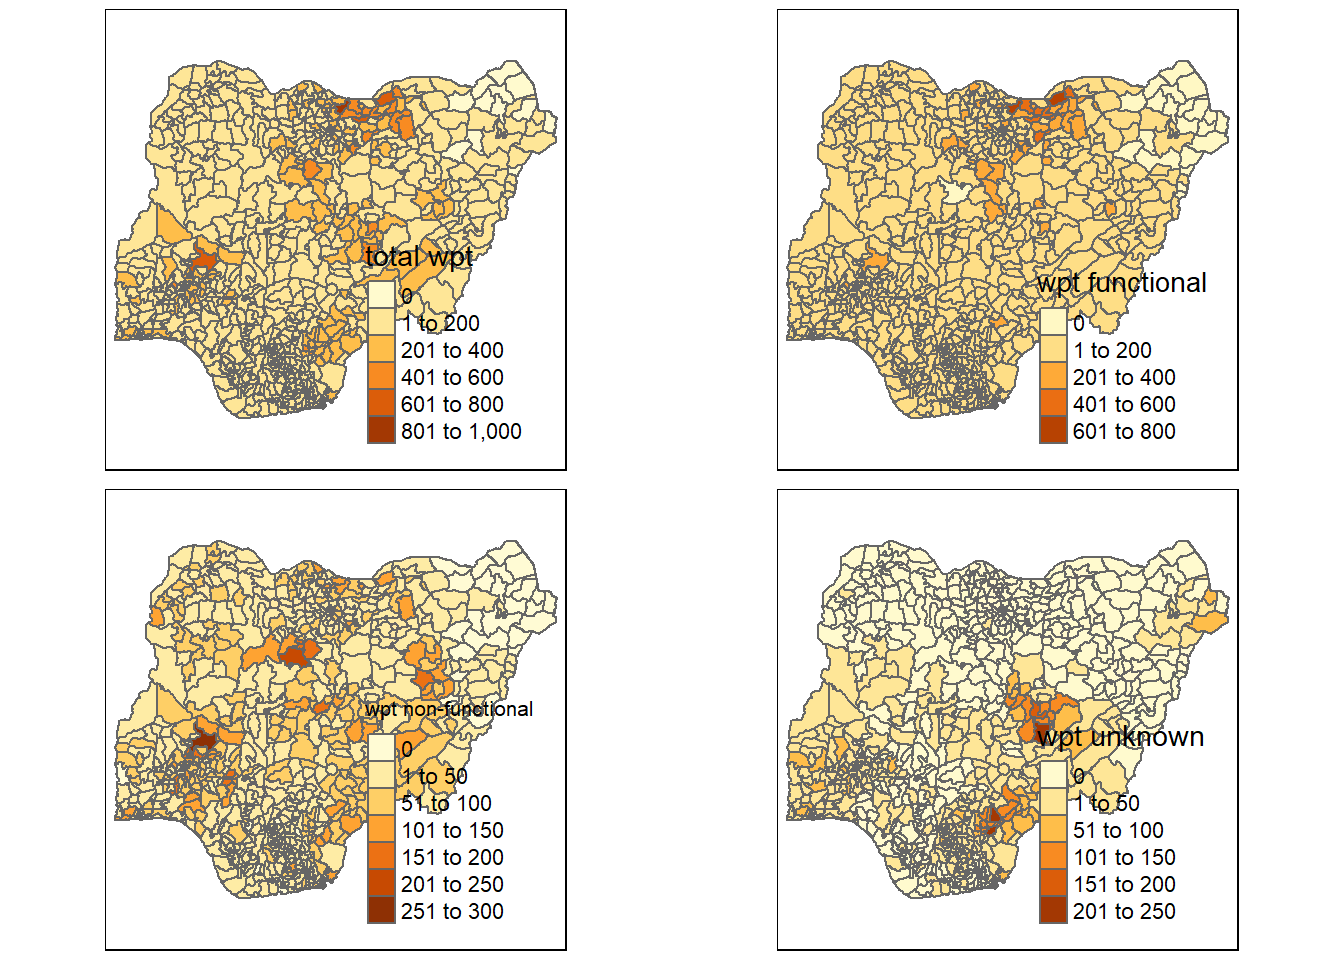
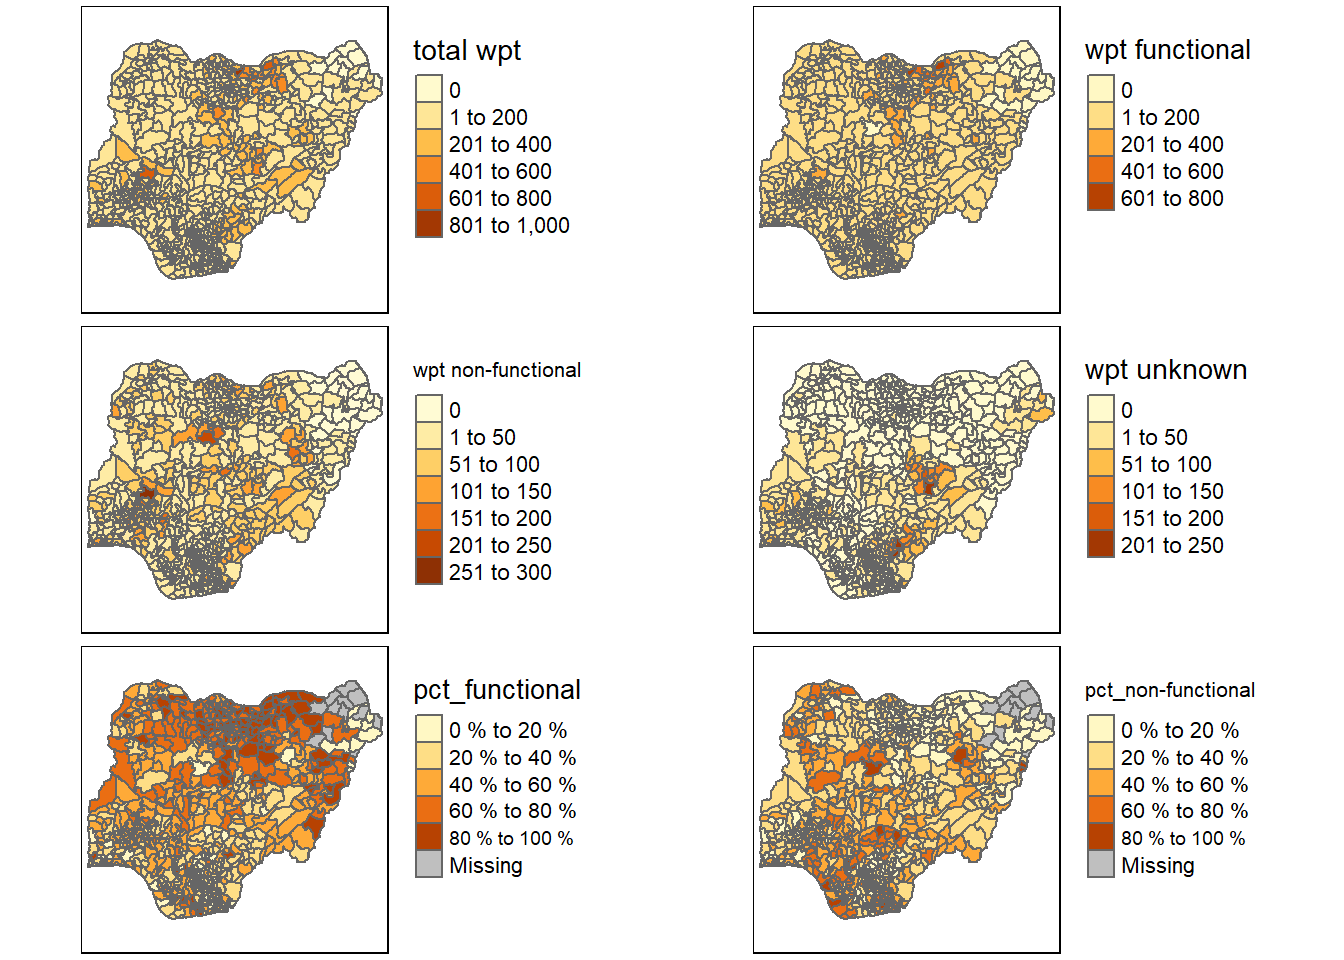
In-class Ex 2 update 2

diff --git a/_site/In-class_Ex/In-class_Ex2/in-class_ex2.html b/_site/In-class_Ex/In-class_Ex2/in-class_ex2.html
@@ -171,6 +171,10 @@ code span.wa { color: #60a0b0; font-weight: bold; font-style: italic; } /* Warni
     <a class="dropdown-item" href="../../In-class_Ex/In-class_Ex1/in-class_ex1.html">
  <span class="dropdown-text">In-class Exercise 1</span></a>
   </li>  
+        <li>
+    <a class="dropdown-item" href="../../In-class_Ex/In-class_Ex2/in-class_ex2.html">
+ <span class="dropdown-text">In-class Exercise 2</span></a>
+  </li>  
     </ul>
   </li>
   <li class="nav-item dropdown ">
@@ -525,16 +529,29 @@ First 10 features:
 <h2 class="anchored" data-anchor-id="visualizing-the-spatial-distribution-of-water-points">Visualizing the Spatial Distribution of Water Points</h2>
 <div class="cell">
 <div class="sourceCode cell-code" id="cb26"><pre class="sourceCode r code-with-copy"><code class="sourceCode r"><span id="cb26-1"><a href="#cb26-1" aria-hidden="true" tabindex="-1"></a>nga_wp <span class="ot">&lt;-</span> <span class="fu">read_rds</span>(<span class="st">"data/rds/nga_wp.rds"</span>)</span>
-<span id="cb26-2"><a href="#cb26-2" aria-hidden="true" tabindex="-1"></a>total <span class="ot">&lt;-</span> <span class="fu">qtm</span>(nga_wp, <span class="st">"total wpt"</span>)</span>
-<span id="cb26-3"><a href="#cb26-3" aria-hidden="true" tabindex="-1"></a>wp_functional <span class="ot">&lt;-</span> <span class="fu">qtm</span>(nga_wp, <span class="st">"wpt functional"</span>)</span>
-<span id="cb26-4"><a href="#cb26-4" aria-hidden="true" tabindex="-1"></a>wp_nonfunctional <span class="ot">&lt;-</span> <span class="fu">qtm</span>(nga_wp, <span class="st">"wpt non-functional"</span>)</span>
-<span id="cb26-5"><a href="#cb26-5" aria-hidden="true" tabindex="-1"></a>unknown <span class="ot">&lt;-</span> <span class="fu">qtm</span>(nga_wp, <span class="st">"wpt unknown"</span>)</span>
-<span id="cb26-6"><a href="#cb26-6" aria-hidden="true" tabindex="-1"></a></span>
-<span id="cb26-7"><a href="#cb26-7" aria-hidden="true" tabindex="-1"></a><span class="fu">tmap_arrange</span>(total, wp_functional, wp_nonfunctional, unknown, <span class="at">asp=</span><span class="dv">1</span>, <span class="at">ncol=</span><span class="dv">2</span>)</span></code><button title="Copy to Clipboard" class="code-copy-button"><i class="bi"></i></button></pre></div>
+<span id="cb26-2"><a href="#cb26-2" aria-hidden="true" tabindex="-1"></a>total <span class="ot">&lt;-</span> <span class="fu">qtm</span>(nga_wp, <span class="st">"total wpt"</span>) <span class="sc">+</span> </span>
+<span id="cb26-3"><a href="#cb26-3" aria-hidden="true" tabindex="-1"></a>  <span class="fu">tm_layout</span>(<span class="at">legend.outside =</span> <span class="cn">TRUE</span>)</span>
+<span id="cb26-4"><a href="#cb26-4" aria-hidden="true" tabindex="-1"></a>wp_functional <span class="ot">&lt;-</span> <span class="fu">qtm</span>(nga_wp, <span class="st">"wpt functional"</span>) <span class="sc">+</span> </span>
+<span id="cb26-5"><a href="#cb26-5" aria-hidden="true" tabindex="-1"></a>  <span class="fu">tm_layout</span>(<span class="at">legend.outside =</span> <span class="cn">TRUE</span>)</span>
+<span id="cb26-6"><a href="#cb26-6" aria-hidden="true" tabindex="-1"></a>wp_nonfunctional <span class="ot">&lt;-</span> <span class="fu">qtm</span>(nga_wp, <span class="st">"wpt non-functional"</span>) <span class="sc">+</span> </span>
+<span id="cb26-7"><a href="#cb26-7" aria-hidden="true" tabindex="-1"></a>  <span class="fu">tm_layout</span>(<span class="at">legend.outside =</span> <span class="cn">TRUE</span>)</span>
+<span id="cb26-8"><a href="#cb26-8" aria-hidden="true" tabindex="-1"></a>unknown <span class="ot">&lt;-</span> <span class="fu">qtm</span>(nga_wp, <span class="st">"wpt unknown"</span>) <span class="sc">+</span> </span>
+<span id="cb26-9"><a href="#cb26-9" aria-hidden="true" tabindex="-1"></a>  <span class="fu">tm_layout</span>(<span class="at">legend.outside =</span> <span class="cn">TRUE</span>)</span>
+<span id="cb26-10"><a href="#cb26-10" aria-hidden="true" tabindex="-1"></a>pct_functional <span class="ot">&lt;-</span> <span class="fu">qtm</span>(nga_wp, <span class="st">"pct_functional"</span>) <span class="sc">+</span> </span>
+<span id="cb26-11"><a href="#cb26-11" aria-hidden="true" tabindex="-1"></a>  <span class="fu">tm_layout</span>(<span class="at">legend.outside =</span> <span class="cn">TRUE</span>, <span class="at">legend.format =</span> <span class="fu">list</span>(<span class="at">fun=</span><span class="cf">function</span>(x) <span class="fu">paste0</span>(<span class="fu">formatC</span>(x <span class="sc">*</span> <span class="dv">100</span>, <span class="at">digits=</span><span class="dv">0</span>, <span class="at">format=</span><span class="st">"f"</span>), <span class="st">" %"</span>)))</span>
+<span id="cb26-12"><a href="#cb26-12" aria-hidden="true" tabindex="-1"></a>pct_nonfunctional <span class="ot">&lt;-</span> <span class="fu">qtm</span>(nga_wp, <span class="st">"pct_non-functional"</span>) <span class="sc">+</span> </span>
+<span id="cb26-13"><a href="#cb26-13" aria-hidden="true" tabindex="-1"></a>  <span class="fu">tm_layout</span>(<span class="at">legend.outside =</span> <span class="cn">TRUE</span>, <span class="at">legend.format =</span> <span class="fu">list</span>(<span class="at">fun=</span><span class="cf">function</span>(x) <span class="fu">paste0</span>(<span class="fu">formatC</span>(x <span class="sc">*</span> <span class="dv">100</span>, <span class="at">digits=</span><span class="dv">0</span>, <span class="at">format=</span><span class="st">"f"</span>), <span class="st">" %"</span>)))</span>
+<span id="cb26-14"><a href="#cb26-14" aria-hidden="true" tabindex="-1"></a></span>
+<span id="cb26-15"><a href="#cb26-15" aria-hidden="true" tabindex="-1"></a><span class="fu">tmap_arrange</span>(total, wp_functional, wp_nonfunctional, unknown, pct_functional, pct_nonfunctional, <span class="at">asp=</span><span class="dv">1</span>, <span class="at">ncol=</span><span class="dv">2</span>)</span></code><button title="Copy to Clipboard" class="code-copy-button"><i class="bi"></i></button></pre></div>
+<div class="cell-output cell-output-stderr">
+<pre><code>Some legend labels were too wide. These labels have been resized to 0.64, 0.64, 0.64, 0.58. Increase legend.width (argument of tm_layout) to make the legend wider and therefore the labels larger.
+Some legend labels were too wide. These labels have been resized to 0.64, 0.64, 0.64, 0.58. Increase legend.width (argument of tm_layout) to make the legend wider and therefore the labels larger.</code></pre>
+</div>
 <div class="cell-output-display">
 <p><img src="in-class_ex2_files/figure-html/unnamed-chunk-17-1.png" class="img-fluid" width="672"></p>
 </div>
 </div>
+<p>From the above maps, it appears that the northern regions of Nigeria tend to enjoy both a higher count as well as percentage of functional water points, while the central and southern regions suffer a higher count and percentage of non-functional ones.</p>
 
 
 </section>

diff --git a/_site/index.html b/_site/index.html
@@ -107,6 +107,10 @@ ul.task-list li input[type="checkbox"] {
     <a class="dropdown-item" href="./In-class_Ex/In-class_Ex1/in-class_ex1.html">
  <span class="dropdown-text">In-class Exercise 1</span></a>
   </li>  
+        <li>
+    <a class="dropdown-item" href="./In-class_Ex/In-class_Ex2/in-class_ex2.html">
+ <span class="dropdown-text">In-class Exercise 2</span></a>
+  </li>  
     </ul>
   </li>
   <li class="nav-item dropdown ">
@@ -171,6 +175,7 @@ ul.task-list li input[type="checkbox"] {
 <li><p>In-class Exercises</p>
 <ol type="i">
 <li><a href="./In-class_Ex/In-class_Ex1/in-class_ex1.html">In-class Exercise 1</a></li>
+<li><a href="./In-class_Ex/In-class_Ex2/in-class_ex2.html">In-class Exercise 2</a></li>
 </ol></li>
 <li><p>Take-home Exercises</p>
 <ol type="i">
